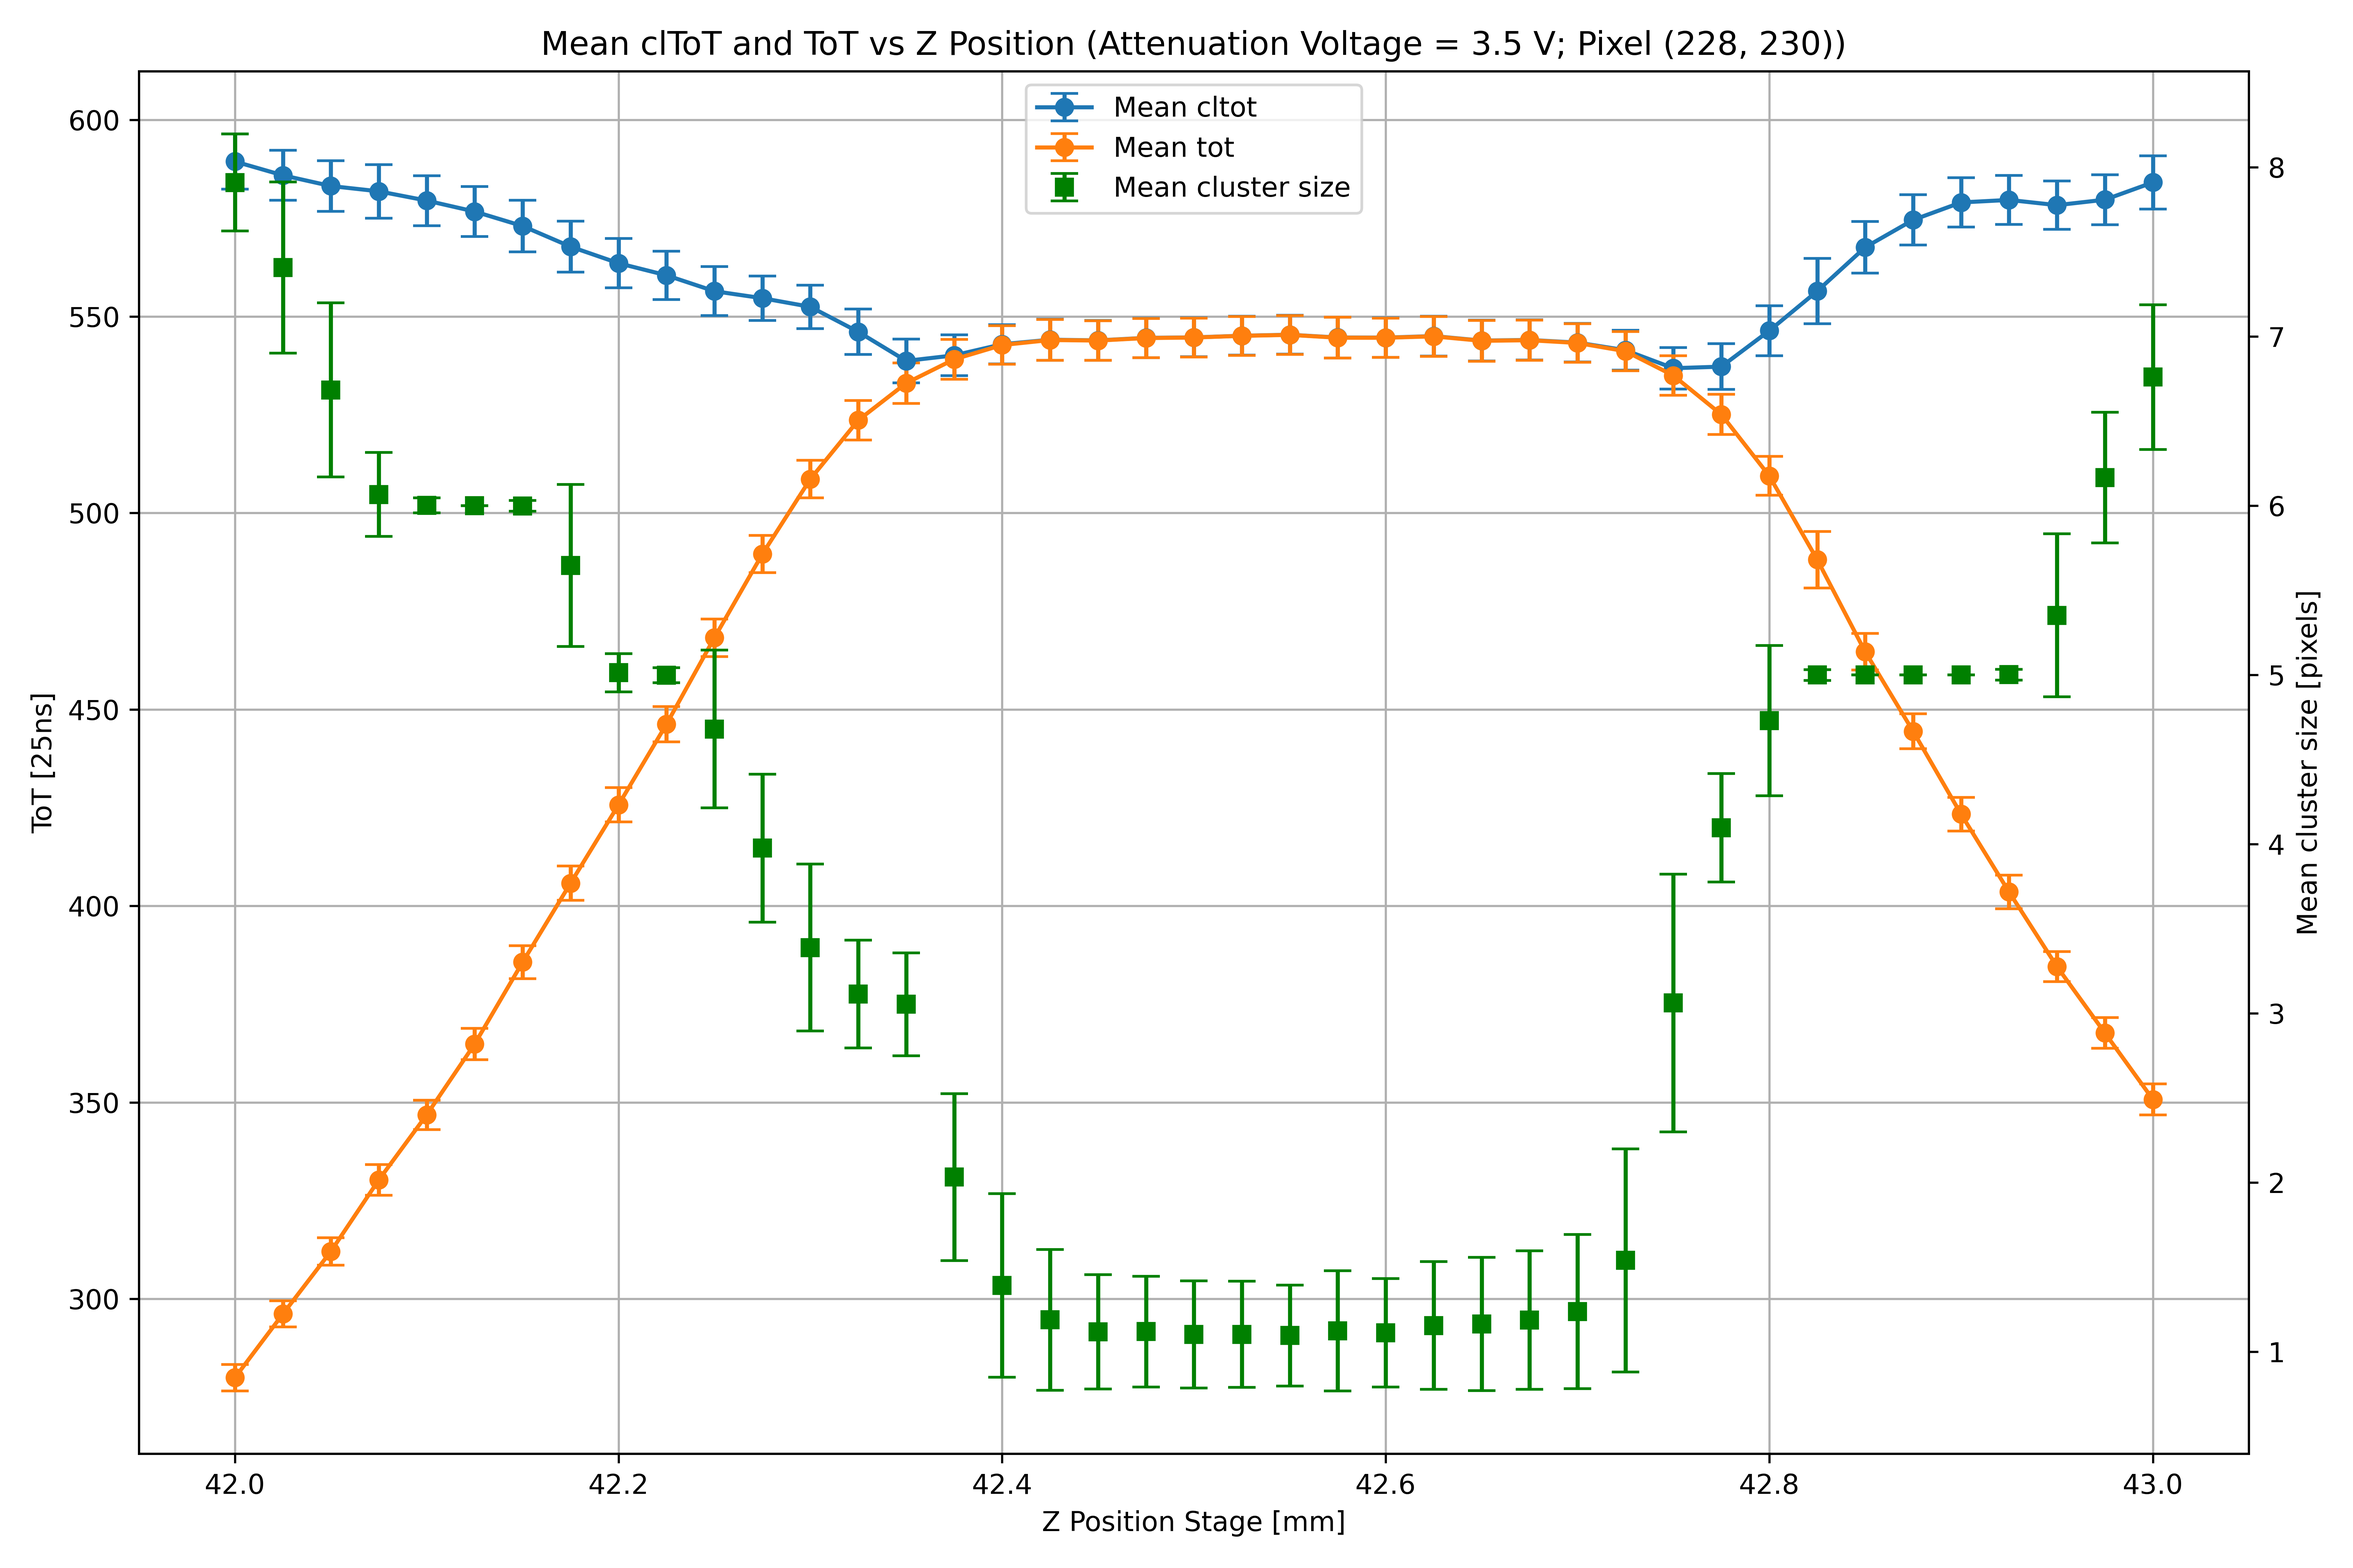
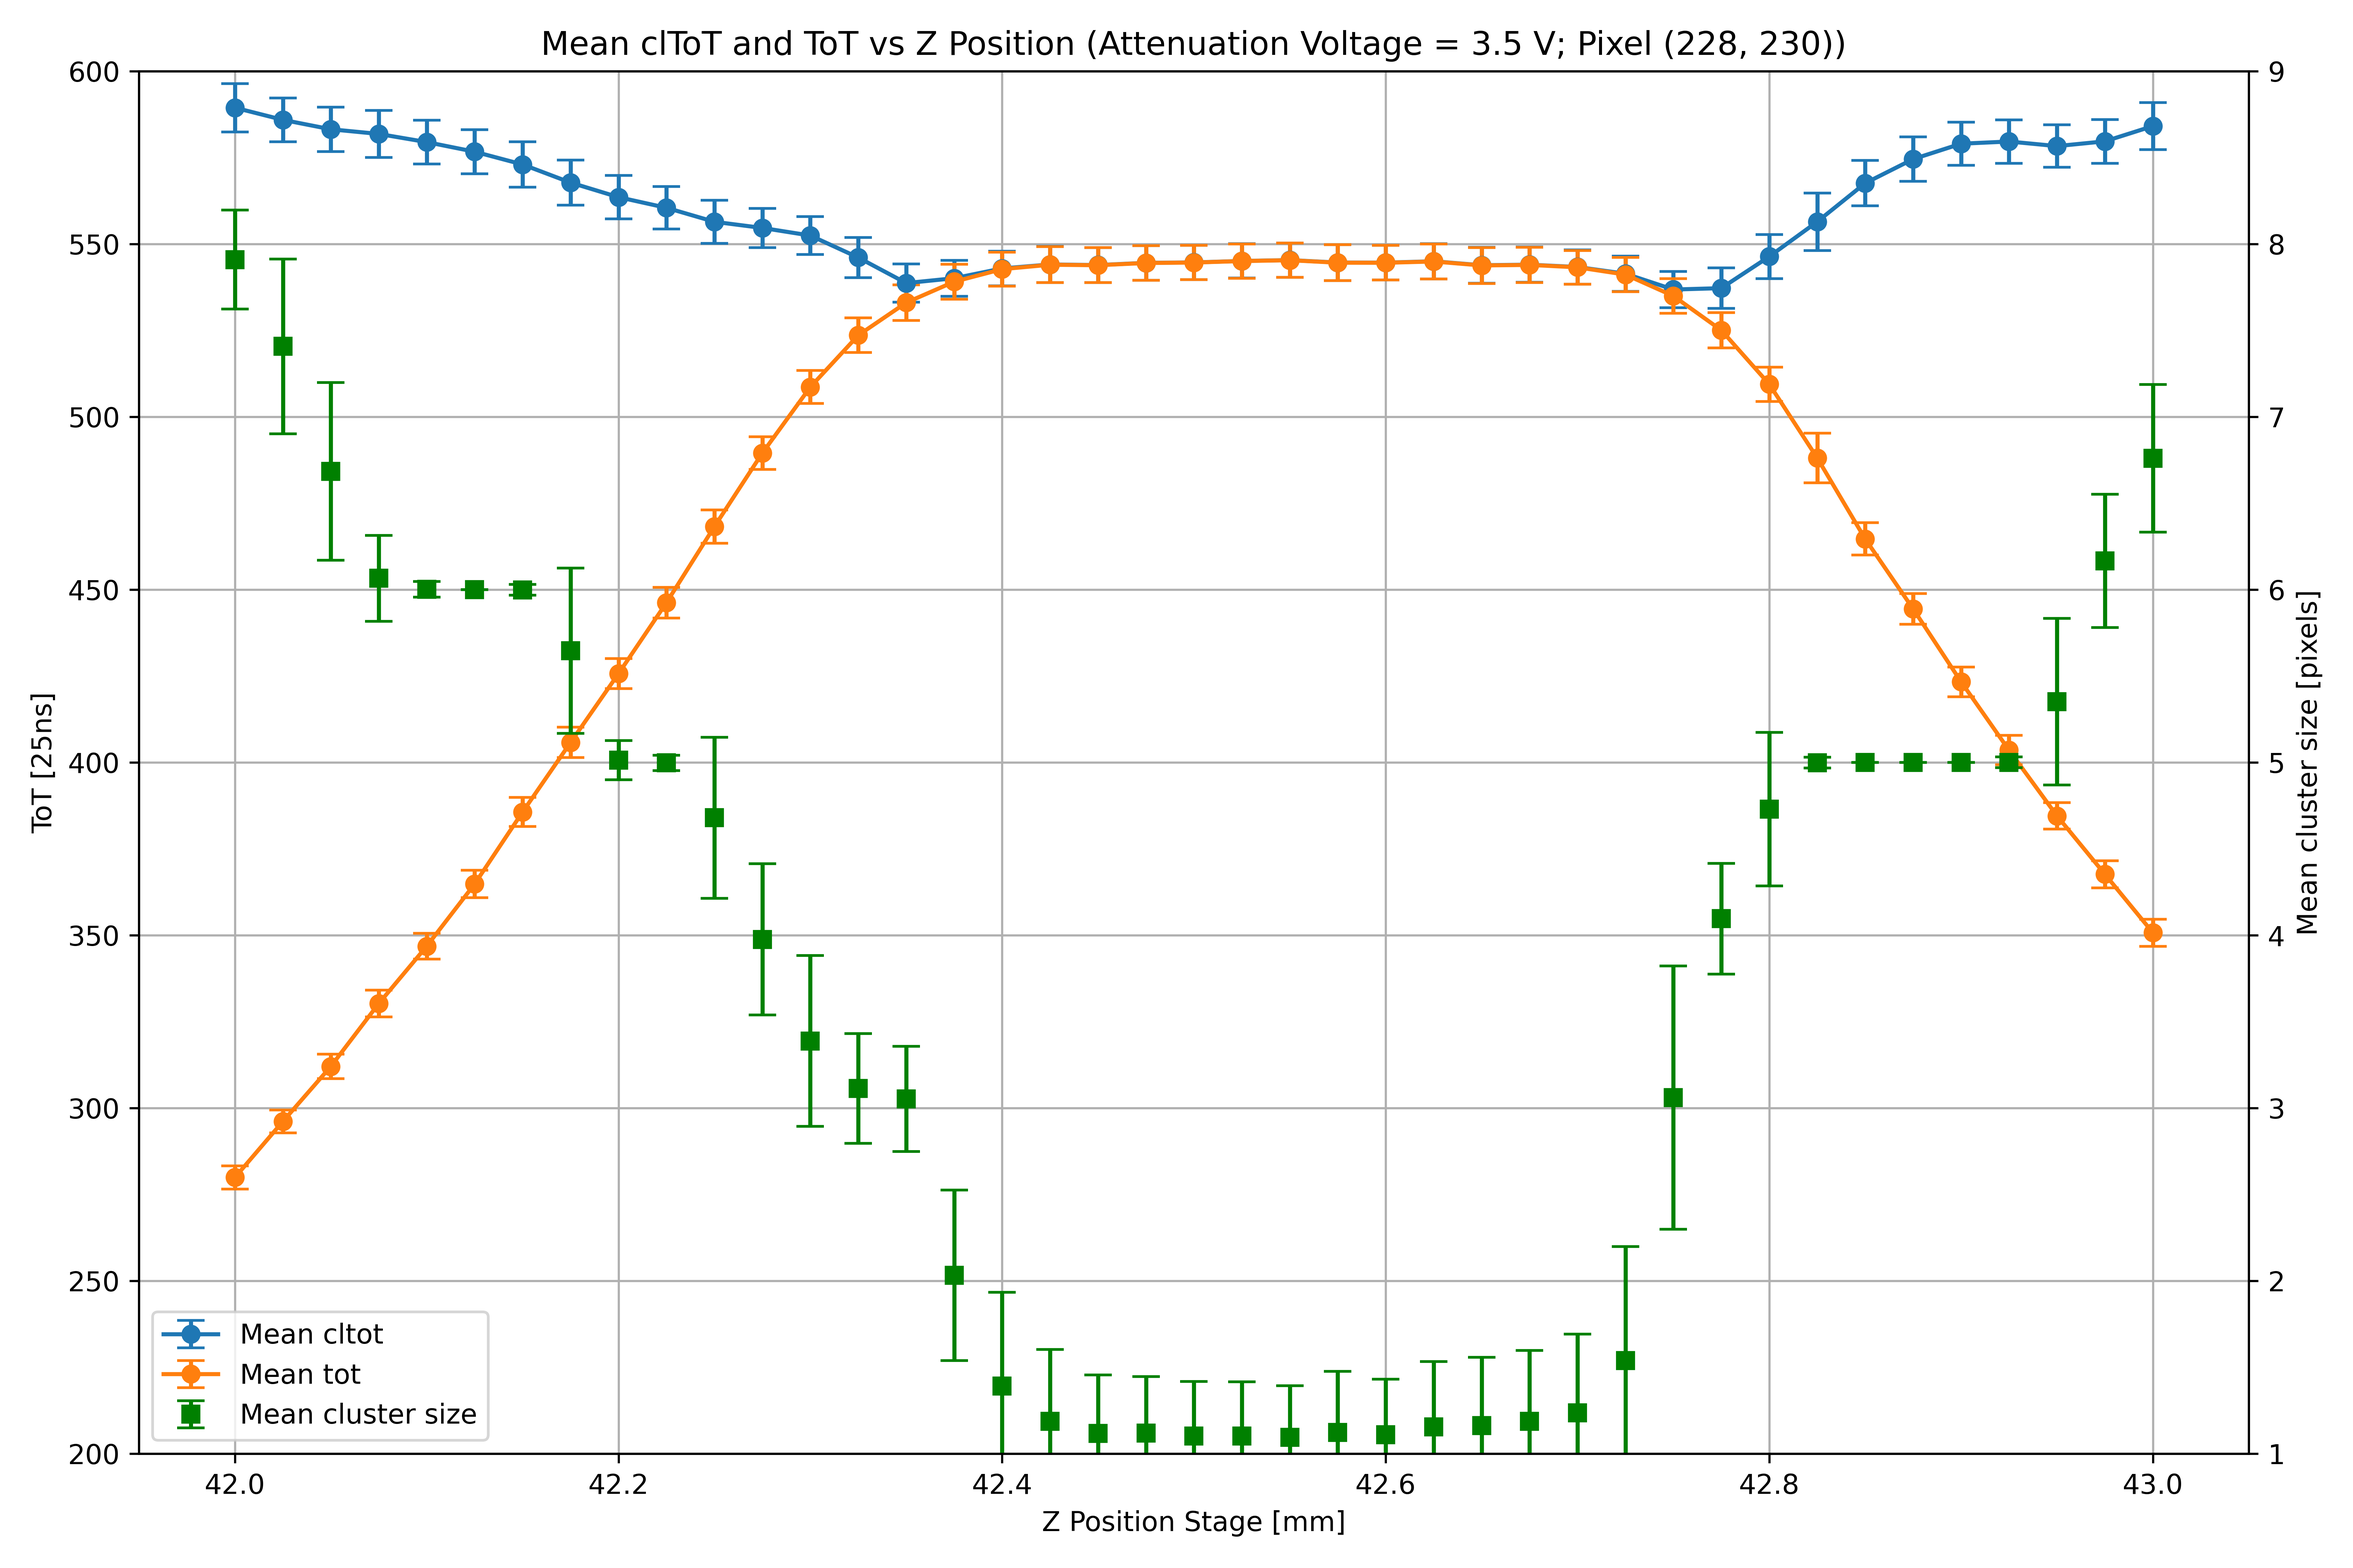
Fix ZScanPlot axis limits and update main execution parameters

diff --git a/ProcessFocus.py b/ProcessFocus.py
@@ -139,6 +139,21 @@ def ZScanPlot(r: str):
         color="green",
         label="Mean cluster size",
     )
+    # fix right axis limits and align tick count with dynamic left ToT limits
+    ax2.set_ylim(0, 9)
+    if r == "z":
+        ax2.set_ylim(1, 9)
+        # determine number of ticks on cluster size axis
+        num_ticks = len(ax2.get_yticks())
+        # dynamic ToT axis limits rounded to nearest 100
+        all_tot = np.hstack([df["mean_cltot"].values, df["max_tot"].values])
+        min_lim = np.floor(all_tot.min() / 100) * 100
+        max_lim = np.ceil(all_tot.max() / 100) * 100
+        # generate matching tick positions
+        left_ticks = np.linspace(min_lim, max_lim, num_ticks)
+        ax.set_ylim(min_lim, max_lim)
+        ax.set_yticks(left_ticks)
+        ax2.set_yticks(np.linspace(1, 9, num_ticks))
     ax2.set_ylabel("Mean cluster size [pixels]")
 
     # Highlight global maximum of max_tot
@@ -161,7 +176,7 @@ def ZScanPlot(r: str):
     )
     lines, labels = ax.get_legend_handles_labels()
     lines2, labels2 = ax2.get_legend_handles_labels()
-    ax.legend(lines + lines2, labels + labels2, loc="upper center")
+    ax.legend(lines + lines2, labels + labels2, loc="best")
     ax.grid(True)
     plt.tight_layout()
     plt.savefig(f"{r.capitalize()}ScanPlot{AttenuationVoltage}.png", dpi=600)
@@ -197,5 +212,5 @@ def ProcessFiles(r: str):
 
 
 if __name__ == "__main__":
-    ProcessFiles("z")
-    ZScanPlot("z")
+    ProcessFiles("x")
+    ZScanPlot("x")
